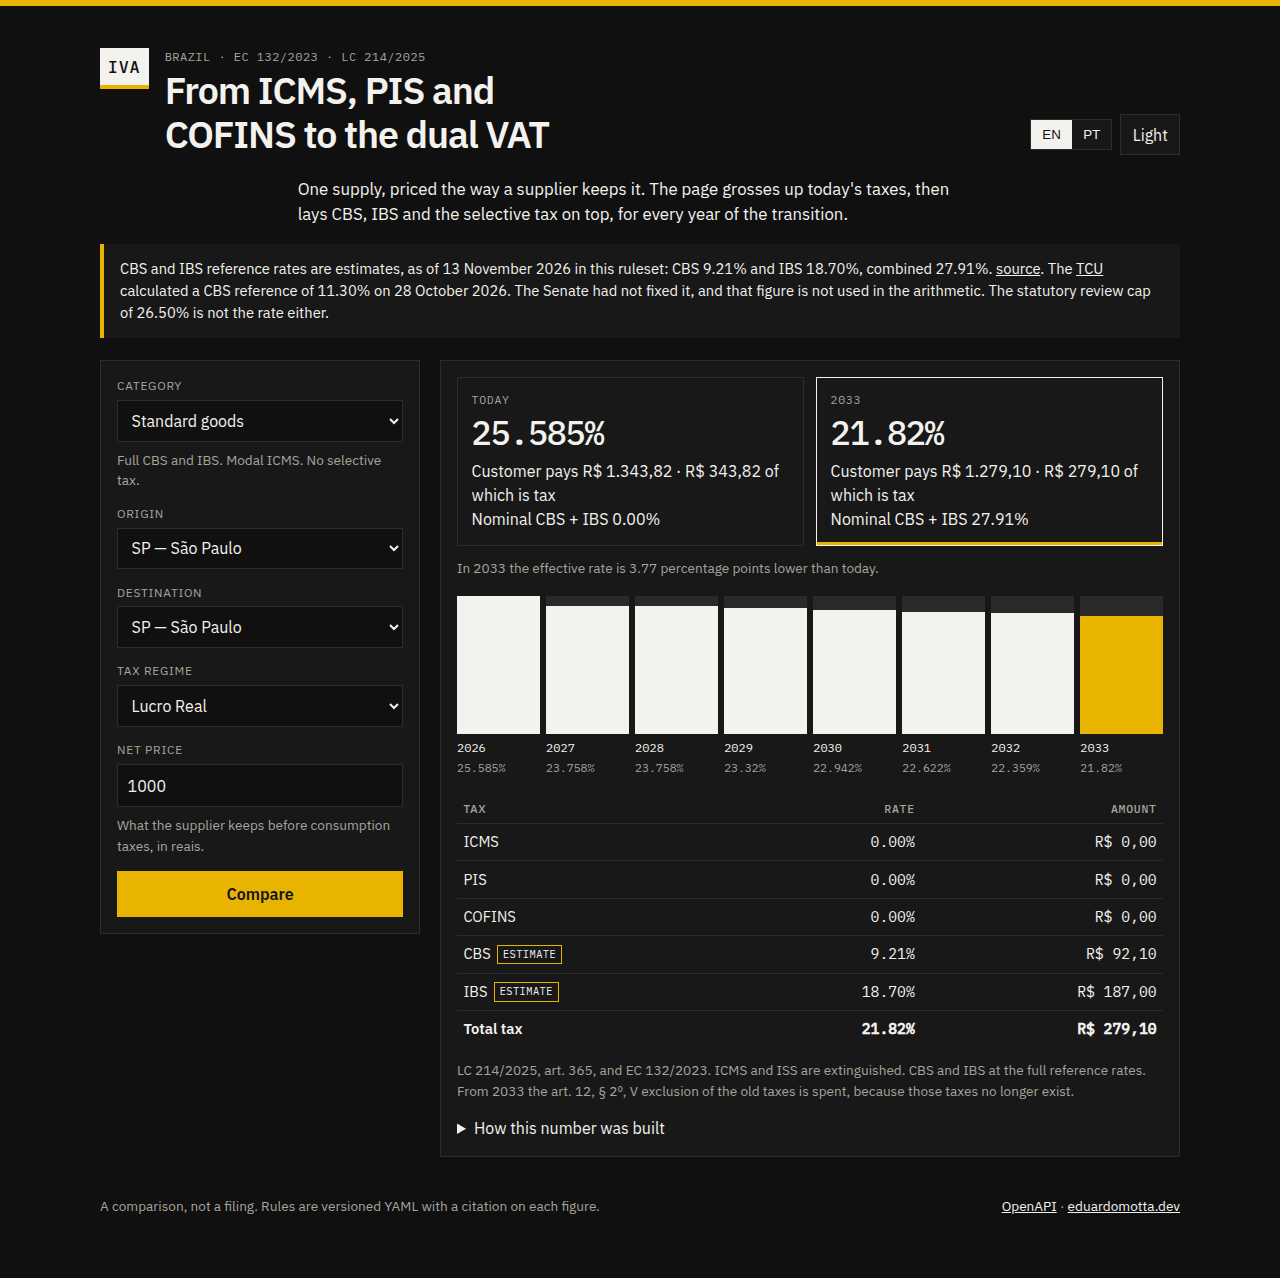
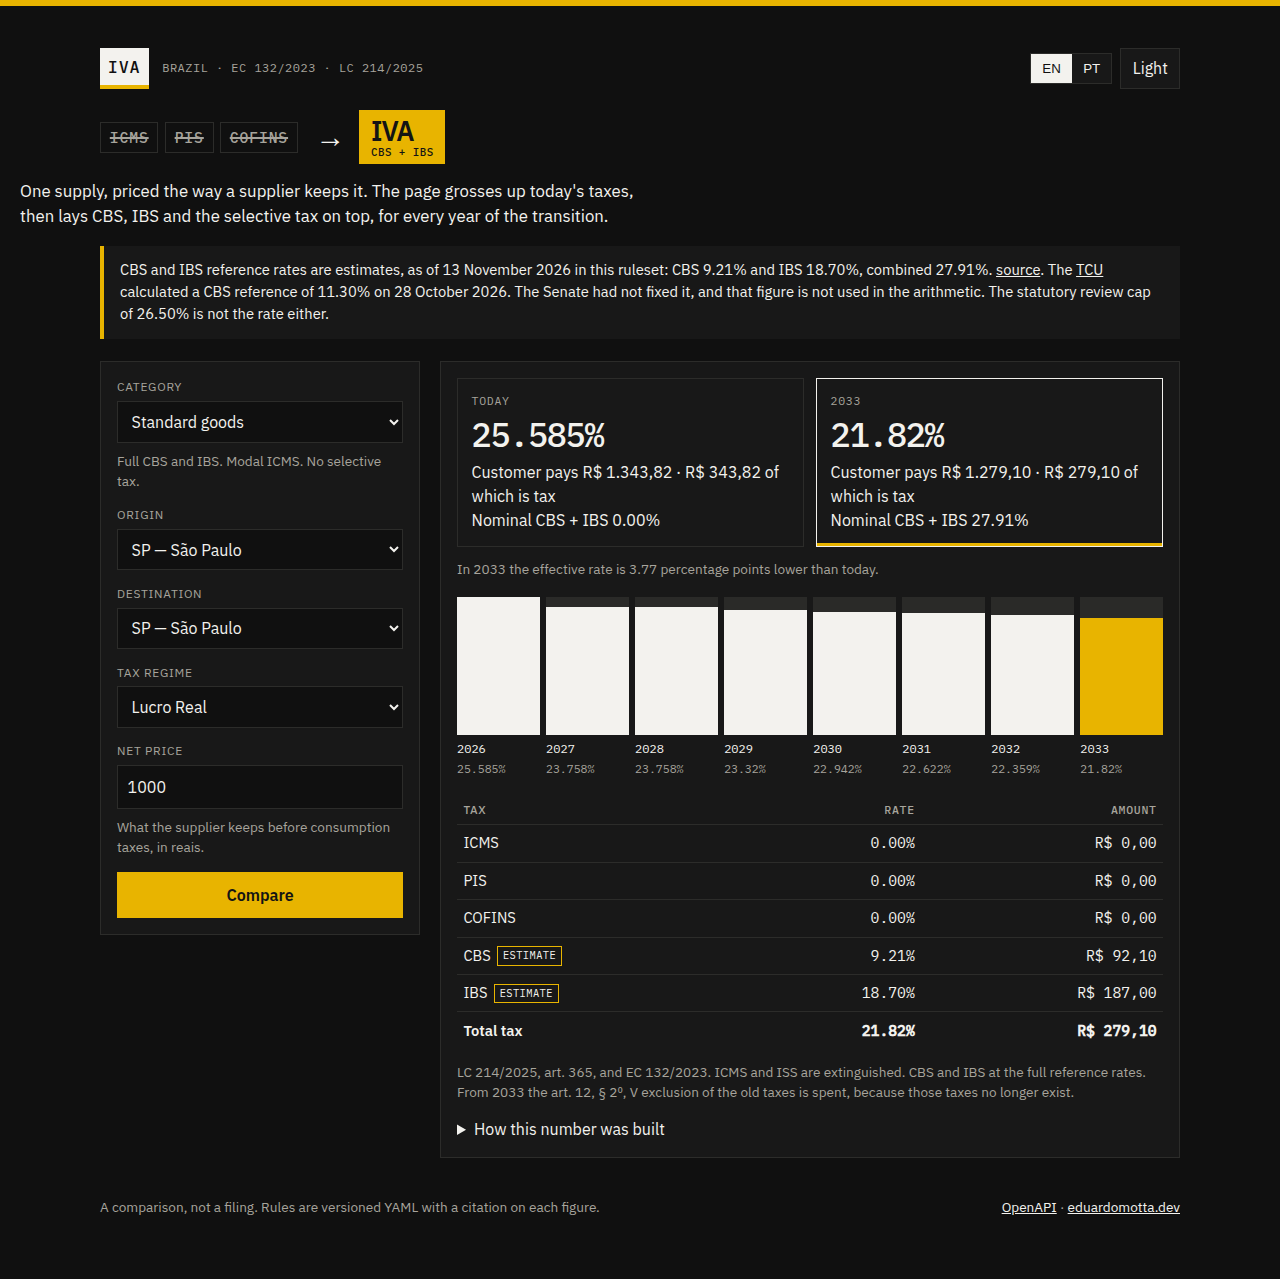
Rewrite the Portuguese copy and show the reform in the heading.
The pt-BR labels, notes and citations now read the way a Brazilian tax product would put them, and the title is the comparison itself: ICMS, PIS and COFINS struck through, then IVA.

diff --git a/frontend/app.js b/frontend/app.js
@@ -1,7 +1,8 @@
 const copy = {
   en: {
     eyebrow: "Brazil · EC 132/2023 · LC 214/2025",
-    title: "From ICMS, PIS and COFINS to the dual VAT",
+    pageTitle: "ICMS, PIS, COFINS → IVA",
+    skip: "Skip to the result",
     lede: "One supply, priced the way a supplier keeps it. The page grosses up today's taxes, then lays CBS, IBS and the selective tax on top, for every year of the transition.",
     lang: "Language",
     themeLight: "Dark",
@@ -77,47 +78,48 @@ const copy = {
   },
   pt: {
     eyebrow: "Brasil · EC 132/2023 · LC 214/2025",
-    title: "Do ICMS, do PIS e da COFINS ao IVA dual",
-    lede: "Uma operação, pelo valor que o fornecedor conserva. A página faz o gross-up dos tributos de hoje e acrescenta CBS, IBS e Imposto Seletivo, em cada ano da transição.",
+    pageTitle: "ICMS, PIS, COFINS → IVA",
+    skip: "Ir para o resultado",
+    lede: "Uma operação, pelo valor que fica com o fornecedor. Os tributos de hoje entram por dentro; CBS, IBS e Imposto Seletivo, por fora, em cada ano da transição.",
     lang: "Idioma",
     themeLight: "Escuro",
     themeDark: "Claro",
     category: "Categoria",
     origin: "Origem",
     destination: "Destino",
-    regime: "Regime",
-    price: "Preço líquido",
-    priceHint: "O que o fornecedor conserva antes dos tributos sobre o consumo, em reais.",
+    regime: "Regime tributário",
+    price: "Valor líquido",
+    priceHint: "O que fica com o fornecedor, antes dos tributos sobre o consumo.",
     submit: "Comparar",
-    waiting: "Escolha uma operação e compare.",
+    waiting: "Informe a operação e compare.",
     today: "Hoje",
     customer: "O adquirente paga",
-    nominal: "CBS + IBS nominais",
-    effective: "Efetiva sobre o preço pago",
-    ofWhich: "disso é tributo",
-    higher: "acima da carga de hoje",
-    lower: "abaixo da carga de hoje",
-    same: "a mesma carga de hoje",
+    nominal: "Alíquota nominal de CBS + IBS",
+    effective: "Carga efetiva sobre o preço pago",
+    ofWhich: "em tributos",
+    higher: "acima da de hoje",
+    lower: "abaixo da de hoje",
+    same: "igual à de hoje",
     delta: (year, direction, points) =>
-      `Em ${year}, a alíquota efetiva fica ${points} pontos percentuais ${direction}.`,
+      `Em ${year}, a carga efetiva fica ${points} pontos percentuais ${direction}.`,
     tax: "Tributo",
     rate: "Alíquota",
     amount: "Valor",
-    total: "Tributo total",
+    total: "Total dos tributos",
     estimate: "estimativa",
-    how: "Como este número foi feito",
+    how: "Como o número foi calculado",
     docs: "OpenAPI",
-    footer: "Uma comparação, não uma apuração. As regras são YAML versionado, com citação em cada número.",
+    footer: "Comparação, não apuração. As regras estão em YAML versionado, com a fonte de cada número.",
     regimes: {
       lucro_real: "Lucro Real",
       lucro_presumido: "Lucro Presumido",
-      simples: "Simples Nacional — ainda não suportado",
+      simples: "Simples Nacional — fora desta versão",
     },
     lines: {
       icms: "ICMS",
-      icms_interstate: "ICMS, parcela interestadual",
-      icms_difal: "ICMS, parcela do destino (DIFAL)",
-      fcp: "Adicional estadual",
+      icms_interstate: "ICMS interestadual",
+      icms_difal: "DIFAL",
+      fcp: "FCP",
       iss: "ISS",
       pis: "PIS",
       cofins: "COFINS",
@@ -130,25 +132,25 @@ const copy = {
       offset_2026: "Compensação de 2026 com PIS/COFINS",
     },
     assumptions: {
-      price_is_net: "O preço é o líquido do fornecedor, antes dos tributos sobre o consumo. Os tributos por dentro entram no gross-up; CBS, IBS e o Imposto Seletivo são por fora.",
-      final_consumer: "O adquirente é consumidor final. Na venda interestadual de mercadoria, incide o ICMS modal do destino: a alíquota interestadual fica na origem e a diferença é o DIFAL.",
-      no_input_credits: "É o débito de uma única operação. Não há crédito sobre compras, nem no PIS/COFINS não cumulativo nem no IVA novo.",
-      domestic_goods: "As mercadorias são nacionais. A alíquota interestadual de 4% dos bens importados não é aplicada.",
-      reference_rates_are_estimates: "A partir de 2027 a CBS, e a partir de 2029 o IBS, usam a estimativa de alíquota de referência. As alíquotas de 2026 e as de IBS de 2027 e 2028 são as alíquotas-teste da lei.",
-      tcu_rate_not_used: "A referência de CBS calculada pelo TCU aparece na nota e não entra na conta.",
-      ibs_phase_in_is_a_projection: "As fatias de 10%, 20%, 30% e 40% do IBS são as frações de substituição de receita da lei, aplicadas sobre uma única alíquota cheia estimada. O Senado fixa a referência de cada ano apenas no ano anterior.",
-      ipi_not_by_ncm: "Não há alíquota de IPI. A TIPI depende de NCM, e estas categorias não são NCM.",
-      ipi_zfm_not_modelled: "O IPI se extingue em 2027, salvo o resíduo dos bens que concorram com a Zona Franca de Manaus. Esse resíduo não é modelado.",
-      modal_icms: "O ICMS é a alíquota modal interna do estado, não a de um produto, combustível ou energia.",
-      fcp_only_when_general: "O adicional de combate à pobreza entra só onde faz parte da regra geral: Rio de Janeiro e Sergipe.",
-      icms_excluded: "O ICMS sai da base do PIS/COFINS, conforme o Tema 69 do STF (RE 574.706).",
-      iss_scenario: "O ISS é uma alíquota de cenário de 5%, o topo da faixa municipal de 2% a 5%. Não é a alíquota de um município nomeado.",
-      iss_excluded: "O ISS sai da base do PIS/COFINS, conforme o Tema 118 do STF (RE 592.616), julgado em 21 de outubro de 2026.",
-      iss_modulation_open: "O Supremo ainda não havia modulado os efeitos desse julgamento quando as regras foram escritas. O próprio PIS/COFINS se extingue em 2027.",
-      states_do_not_change_services: "Num serviço, os dois estados não mudam o número. O ISS aqui é a alíquota de cenário, não uma tabela municipal.",
-      basic_basket_keeps_modal_icms: "A cesta básica nacional tem CBS e IBS a zero. A redução estadual de ICMS sobre alimentos depende do produto e não é aplicada, então a coluna de hoje usa a alíquota modal.",
-      selective_holding_after_2027: "A Medida Provisória nº 1.399/2026 fixa o Imposto Seletivo para o ano-calendário de 2027. Os anos seguintes repetem essa alíquota como premissa de manutenção. A lei ainda exige um escalonamento, de 2029 a 2033, para bebidas e tabaco, e esse escalonamento não tem número.",
-      vehicle_adjustments_not_applied: "A alíquota do automóvel é a base de 6,3% vezes o fator de 1,21, antes dos ajustes de sustentabilidade, que dependem do veículo.",
+      price_is_net: "O valor informado é o que fica com o fornecedor, antes dos tributos sobre o consumo. ICMS, ISS, PIS e COFINS são calculados por dentro; CBS, IBS e Imposto Seletivo, por fora.",
+      final_consumer: "O adquirente é consumidor final. Na venda interestadual de mercadoria, o ICMS é o da alíquota interna do destino: a interestadual fica na origem e a diferença é o DIFAL.",
+      no_input_credits: "É o débito de uma única operação. Não se aproveitam créditos das entradas, nem no PIS/COFINS não cumulativo nem na CBS e no IBS.",
+      domestic_goods: "A mercadoria é tratada como nacional. A alíquota interestadual de 4% dos produtos importados não se aplica.",
+      reference_rates_are_estimates: "De 2027 em diante, a CBS usa a estimativa de alíquota de referência; o IBS, a partir de 2029. Em 2026, e no IBS de 2027 e 2028, valem as alíquotas de teste da lei.",
+      tcu_rate_not_used: "A alíquota de referência da CBS calculada pelo TCU aparece na nota e não entra no cálculo.",
+      ibs_phase_in_is_a_projection: "Os 10%, 20%, 30% e 40% do IBS são as frações da transição previstas na lei, aplicadas sobre uma única alíquota cheia estimada. O Senado só fixa a referência de cada ano no ano anterior.",
+      ipi_not_by_ncm: "Não há IPI nesta conta. A alíquota da TIPI depende do NCM, e estas categorias não são códigos NCM.",
+      ipi_zfm_not_modelled: "O IPI se extingue em 2027, exceto para os bens que concorrem com a Zona Franca de Manaus. Esse resíduo não entra nesta versão.",
+      modal_icms: "O ICMS usado é a alíquota interna geral do Estado, não a de um produto, de combustível ou de energia.",
+      fcp_only_when_general: "O adicional do fundo de combate à pobreza entra só onde integra a regra geral: Rio de Janeiro e Sergipe.",
+      icms_excluded: "O ICMS é excluído da base de cálculo do PIS e da COFINS, conforme o Tema 69 do STF (RE 574.706).",
+      iss_scenario: "O ISS entra como premissa de 5%, o teto da faixa municipal de 2% a 5%. Não é a alíquota de um município específico.",
+      iss_excluded: "O ISS é excluído da base de cálculo do PIS e da COFINS, conforme o Tema 118 do STF (RE 592.616), julgado em 21 de outubro de 2026.",
+      iss_modulation_open: "Na data desta versão, o STF ainda não havia modulado os efeitos desse julgamento. O PIS e a COFINS se extinguem em 2027.",
+      states_do_not_change_services: "Em serviço, a UF de origem e a de destino não mudam o resultado. O ISS aqui é a premissa de 5%, não a tabela de um município.",
+      basic_basket_keeps_modal_icms: "A cesta básica nacional tem alíquota zero de CBS e de IBS. Redução de ICMS sobre alimentos depende do produto e não entra nesta versão, então a coluna de hoje segue a alíquota interna geral.",
+      selective_holding_after_2027: "A MP nº 1.399/2026 fixa o Imposto Seletivo para o ano-calendário de 2027. Os anos seguintes mantêm essa alíquota. O escalonamento de 2029 a 2033, para bebidas e tabaco, ainda não tem número publicado.",
+      vehicle_adjustments_not_applied: "A alíquota do automóvel é a base de 6,3% multiplicada pelo fator 1,21, antes dos ajustes de sustentabilidade, que dependem de cada veículo.",
     },
   },
 };
@@ -205,8 +207,9 @@ function applyChrome() {
   const text = t();
   document.documentElement.lang = state.lang === "pt" ? "pt-BR" : "en";
   document.documentElement.dataset.theme = state.theme;
+  document.title = text.pageTitle;
+  $("skip").textContent = text.skip;
   $("eyebrow").textContent = text.eyebrow;
-  $("title").textContent = text.title;
   $("lede").textContent = text.lede;
   $("label-category").textContent = text.category;
   $("label-origin").textContent = text.origin;
@@ -294,12 +297,14 @@ function renderNotice() {
   notice.replaceChildren();
   if (state.lang === "pt") {
     notice.append(
-      `As alíquotas de referência da CBS e do IBS são estimativas, vigentes nesta base em ${asOf}: CBS ${cbs} e IBS ${ibs}, juntas ${combined}. `,
+      `As alíquotas de referência da CBS e do IBS são estimativas. Nesta versão, de ${asOf}: CBS ${cbs} e IBS ${ibs}, somadas ${combined}. `,
     );
     notice.append(link);
-    notice.append(`. O ${""}`);
+    notice.append(". O ");
     notice.append(tcuLink);
-    notice.append(` calculou ${tcu} para a CBS em 28 de outubro de 2026; o Senado ainda não a tinha fixado, e esse percentual não entra na conta. O teto legal de revisão de ${cap} também não é a alíquota usada.`);
+    notice.append(
+      ` calculou ${tcu} de CBS em 28 de outubro de 2026. O Senado ainda não a havia fixado, e esse percentual não entra no cálculo. O teto de revisão de ${cap} também não é a alíquota adotada.`,
+    );
   } else {
     notice.append(
       `CBS and IBS reference rates are estimates, as of ${asOf} in this ruleset: CBS ${cbs} and IBS ${ibs}, combined ${combined}. `,
@@ -520,6 +525,6 @@ loadCatalogue()
   .then(() => submit())
   .catch(() => {
     $("waiting").textContent = state.lang === "pt"
-      ? "As regras não carregaram."
+      ? "Não foi possível carregar as regras."
       : "The rules did not load.";
   });

diff --git a/frontend/styles.css b/frontend/styles.css
@@ -55,7 +55,7 @@ body {
 
 .skip:focus { top: 0.8rem; }
 
-.top, .lede, .notice, main, .colophon {
+.top, .lockup, .lede, .notice, main, .colophon {
   max-width: 1080px;
   margin-left: auto;
   margin-right: auto;
@@ -65,11 +65,11 @@ body {
   display: flex;
   justify-content: space-between;
   gap: 1.5rem;
-  align-items: flex-end;
+  align-items: center;
   padding-top: 0.6rem;
 }
 
-.brand { display: flex; gap: 1rem; align-items: flex-start; }
+.brand { display: flex; gap: 0.85rem; align-items: center; }
 
 .mark {
   margin: 0;
@@ -91,13 +91,62 @@ body {
   text-transform: uppercase;
 }
 
-h1 {
-  margin: 0.15rem 0 0;
-  font-size: clamp(1.7rem, 3vw, 2.35rem);
+.lockup {
+  display: flex;
+  flex-wrap: wrap;
+  align-items: center;
+  gap: 0.85rem 1.1rem;
+  margin: 1.35rem auto 0;
+  font-weight: 500;
+  letter-spacing: 0;
+  line-height: 1;
+}
+
+.chips { display: flex; flex-wrap: wrap; gap: 0.4rem; }
+
+.chip {
+  font-family: "IBM Plex Mono", ui-monospace, monospace;
+  font-size: 0.92rem;
+  font-weight: 500;
+  letter-spacing: 0.06em;
+  color: var(--muted);
+  text-decoration: line-through;
+  text-decoration-thickness: 1.5px;
+  border: 1px solid var(--line);
+  padding: 0.48rem 0.55rem 0.4rem;
+}
+
+.iva-side { display: flex; align-items: center; gap: 0.9rem; }
+
+.arrow {
+  font-size: 1.85rem;
+  font-weight: 500;
+  line-height: 1;
+  color: var(--ink);
+}
+
+.iva {
+  display: flex;
+  flex-direction: column;
+  align-items: flex-start;
+  background: var(--accent);
+  color: var(--accent-ink);
+  padding: 0.42rem 0.72rem 0.38rem;
+}
+
+.iva-name {
+  font-size: 1.7rem;
   font-weight: 600;
-  letter-spacing: -0.03em;
-  line-height: 1.15;
-  max-width: 18ch;
+  letter-spacing: -0.04em;
+  line-height: 1;
+}
+
+.iva-eq {
+  margin-top: 0.18rem;
+  font-family: "IBM Plex Mono", ui-monospace, monospace;
+  font-size: 0.68rem;
+  font-weight: 500;
+  letter-spacing: 0.04em;
 }
 
 .tools { display: flex; gap: 0.5rem; align-items: center; }
@@ -131,8 +180,8 @@ h1 {
 }
 
 .lede {
-  max-width: 68ch;
-  margin-top: 1.4rem;
+  max-width: 62ch;
+  margin: 0.95rem 0 0;
   font-size: 1.05rem;
 }
 
@@ -355,5 +404,6 @@ details ul { margin: 0.5rem 0 0; padding-left: 1.1rem; color: var(--muted); }
   main { grid-template-columns: 1fr; }
   .timeline { grid-template-columns: repeat(4, minmax(0, 1fr)); }
   .cards { grid-template-columns: 1fr; }
-  h1 { max-width: none; }
+  .lockup { gap: 0.7rem 0.85rem; }
+  .iva-name { font-size: 1.45rem; }
 }

diff --git a/frontend/index.html b/frontend/index.html
@@ -18,14 +18,11 @@
     <link rel="stylesheet" href="/styles.css" />
   </head>
   <body>
-    <a class="skip" href="#result">Skip to the result</a>
+    <a class="skip" id="skip" href="#result">Skip to the result</a>
     <header class="top">
       <div class="brand">
         <p class="mark">IVA</p>
-        <div>
-          <p class="eyebrow" id="eyebrow"></p>
-          <h1 id="title"></h1>
-        </div>
+        <p class="eyebrow" id="eyebrow"></p>
       </div>
       <div class="tools">
         <div class="segmented" role="group" id="lang-switch"></div>
@@ -33,6 +30,20 @@
       </div>
     </header>
 
+    <h1 class="lockup">
+      <span class="chips">
+        <span class="chip">ICMS</span>
+        <span class="chip">PIS</span>
+        <span class="chip">COFINS</span>
+      </span>
+      <span class="iva-side">
+        <span class="arrow" aria-hidden="true">→</span>
+        <span class="iva">
+          <span class="iva-name">IVA</span>
+          <span class="iva-eq">CBS + IBS</span>
+        </span>
+      </span>
+    </h1>
     <p class="lede" id="lede"></p>
     <aside class="notice" id="notice"></aside>
 

diff --git a/app/engine/calculate.py b/app/engine/calculate.py
@@ -49,9 +49,10 @@ BASELINE_SOURCE = (
     "the 2026 column still carries beside the test taxes."
 )
 BASELINE_SOURCE_PT = (
-    "Sistema atual, antes do ano-teste da CBS e do IBS: ICMS modal cheio ou a "
-    "alíquota-cenário do ISS, mais PIS e COFINS. São as mesmas alíquotas "
-    "antigas que a coluna de 2026 ainda carrega ao lado dos tributos-teste."
+    "Sistema vigente, antes do ano de teste da CBS e do IBS: ICMS pela "
+    "alíquota interna geral, ou ISS na premissa de 5%, mais PIS e COFINS. "
+    "São as mesmas alíquotas que a coluna de 2026 ainda traz, ao lado dos "
+    "tributos de teste."
 )
 
 
@@ -84,7 +85,7 @@ def calculate(request: CalculationRequest, rules: RuleSet) -> CalculationResult:
         raise UnknownInputError(
             "unknown_state",
             f"Unknown state: {missing}.",
-            f"Unidade da Federação desconhecida: {missing}.",
+            f"UF desconhecida: {missing}.",
         )
     regime = rules.regime(request.regime)
     if regime is None or not regime.supported:

diff --git a/app/api.py b/app/api.py
@@ -109,9 +109,9 @@ def calculate_route(body: CalculationRequest, request: Request) -> CalculationRe
                 "2026 CBS and IBS test rates do not apply to Simples taxpayers."
             ),
             (
-                "O Simples Nacional não entra nesta versão. A tabela unificada "
-                "da Lei Complementar nº 123/2006 pede uma base própria, e as "
-                "alíquotas-teste de CBS e IBS de 2026 não se aplicam a optantes."
+                "O Simples Nacional fica de fora nesta versão. O regime da "
+                "LC nº 123/2006 tem tabela própria, e as alíquotas de teste "
+                "de CBS e IBS de 2026 não se aplicam ao optante."
             ),
         )
     except UnknownInputError as exc:

diff --git a/README.md b/README.md
@@ -8,7 +8,7 @@ Eduardo de Moraes, a tax lawyer who now works as a senior backend engineer, keep
 
 ## The page
 
-English is the default. Portuguese is a toggle, and so is a dark theme. The yellow note is the estimate disclosure: the date, the pair of rates the arithmetic uses, and the TCU figure it does not use.
+English is the default. Portuguese is a toggle, and so is a dark theme. The heading is the comparison: ICMS, PIS and COFINS struck through, then IVA, which is CBS plus IBS. The yellow note is the estimate disclosure: the date, the pair of rates the arithmetic uses, and the TCU figure it does not use.
 
 Standard goods, São Paulo to São Paulo, Lucro Real, R$ 1,000 net.
 
